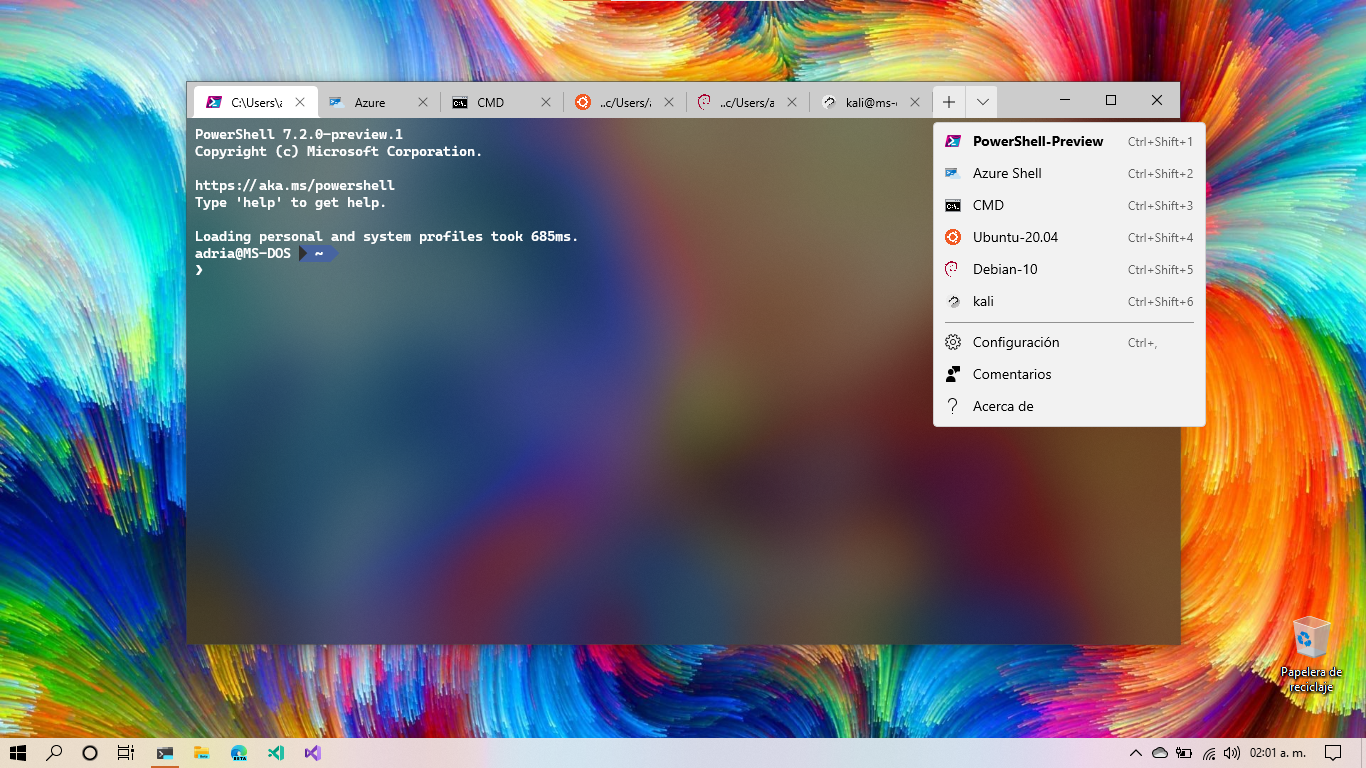
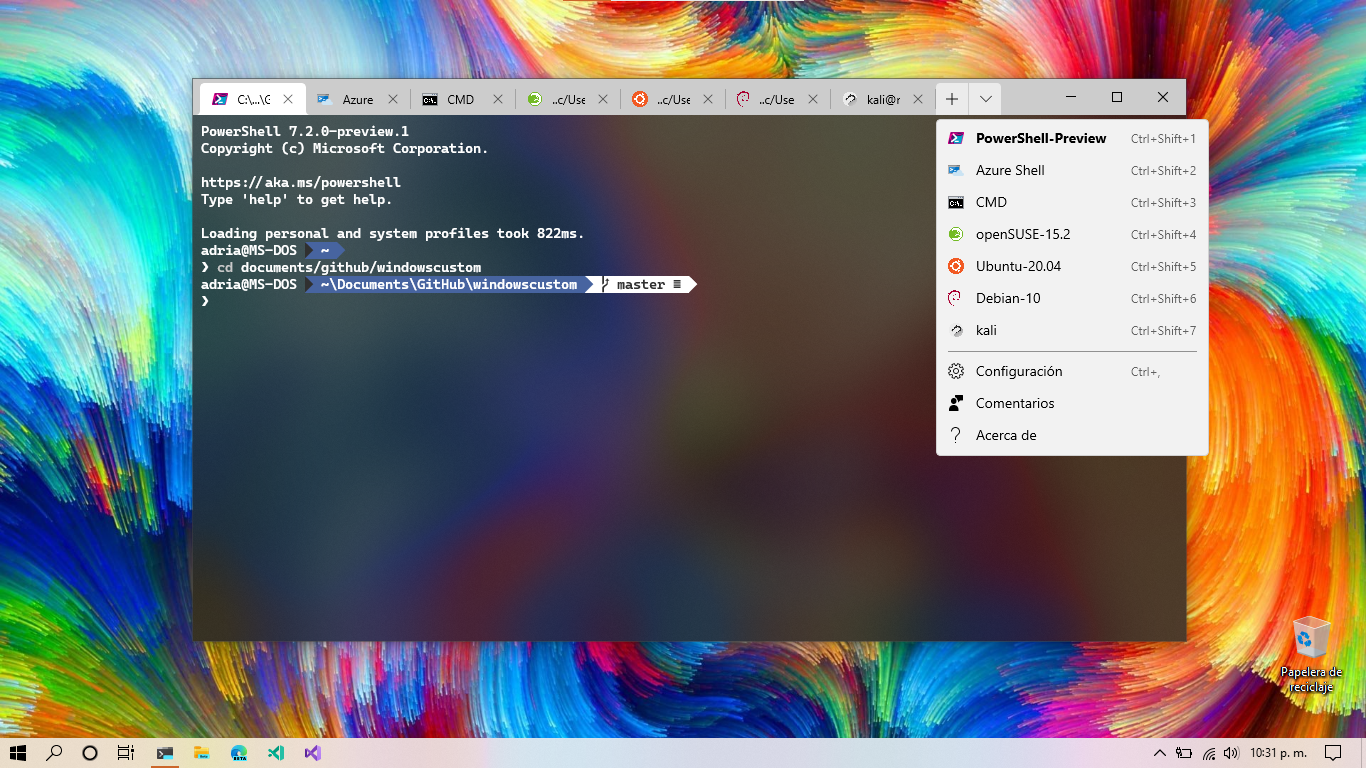
finish

diff --git a/README.md b/README.md
@@ -155,6 +155,17 @@ _Finally set up the Ubuntu profile in the windows terminal settings, either way 
 <img src=/Captures/windowsDebian.png alt="Debian"/>
 <img src=/Captures/windowsKali.png alt="Kali"/>
 
+_One more thing, to install it in open suse you have to use the zypper package manager_ 
+
+```
+sudo zypper update
+```
+```
+sudo zypper install zsh -y
+```
+
+<img src=/Captures/windowsKali.png alt="Kali"/>
+
 ## .NET 5 on Windows Subsystem For Linux (Ubuntu) 🖥
 _First we need to add the Microsoft package signing keys to the list of trusted keys and add the package repository_
 
